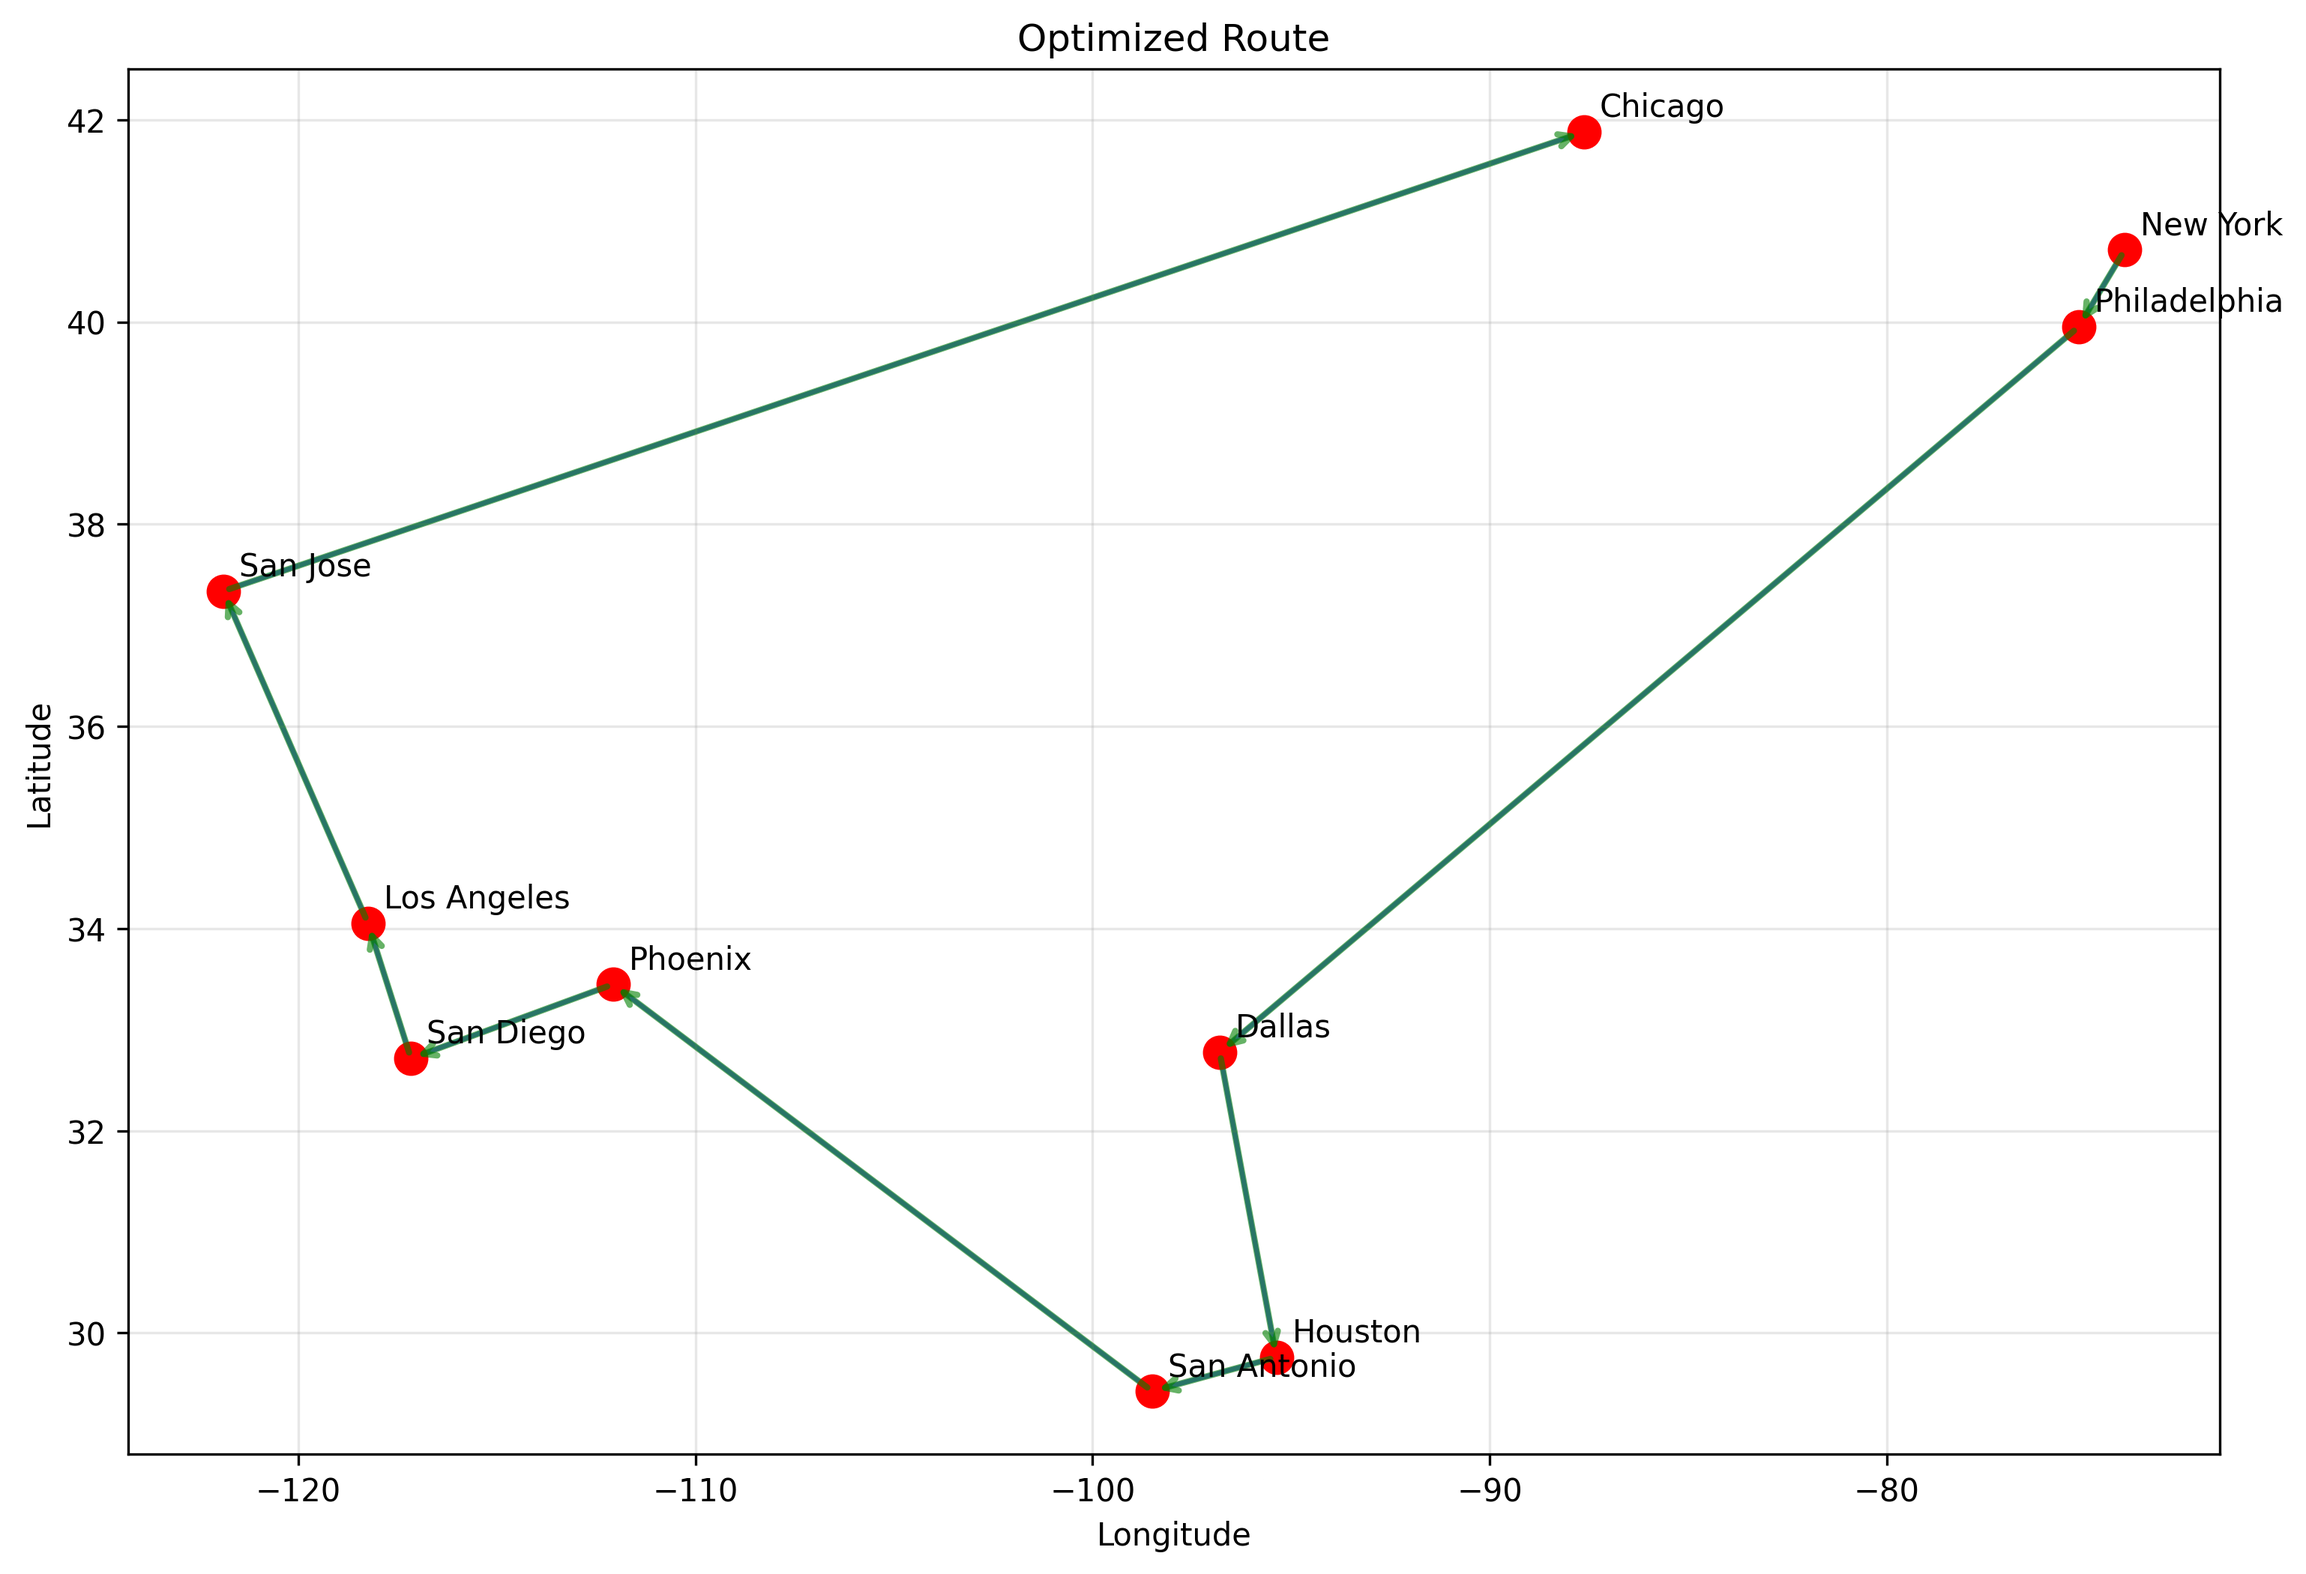
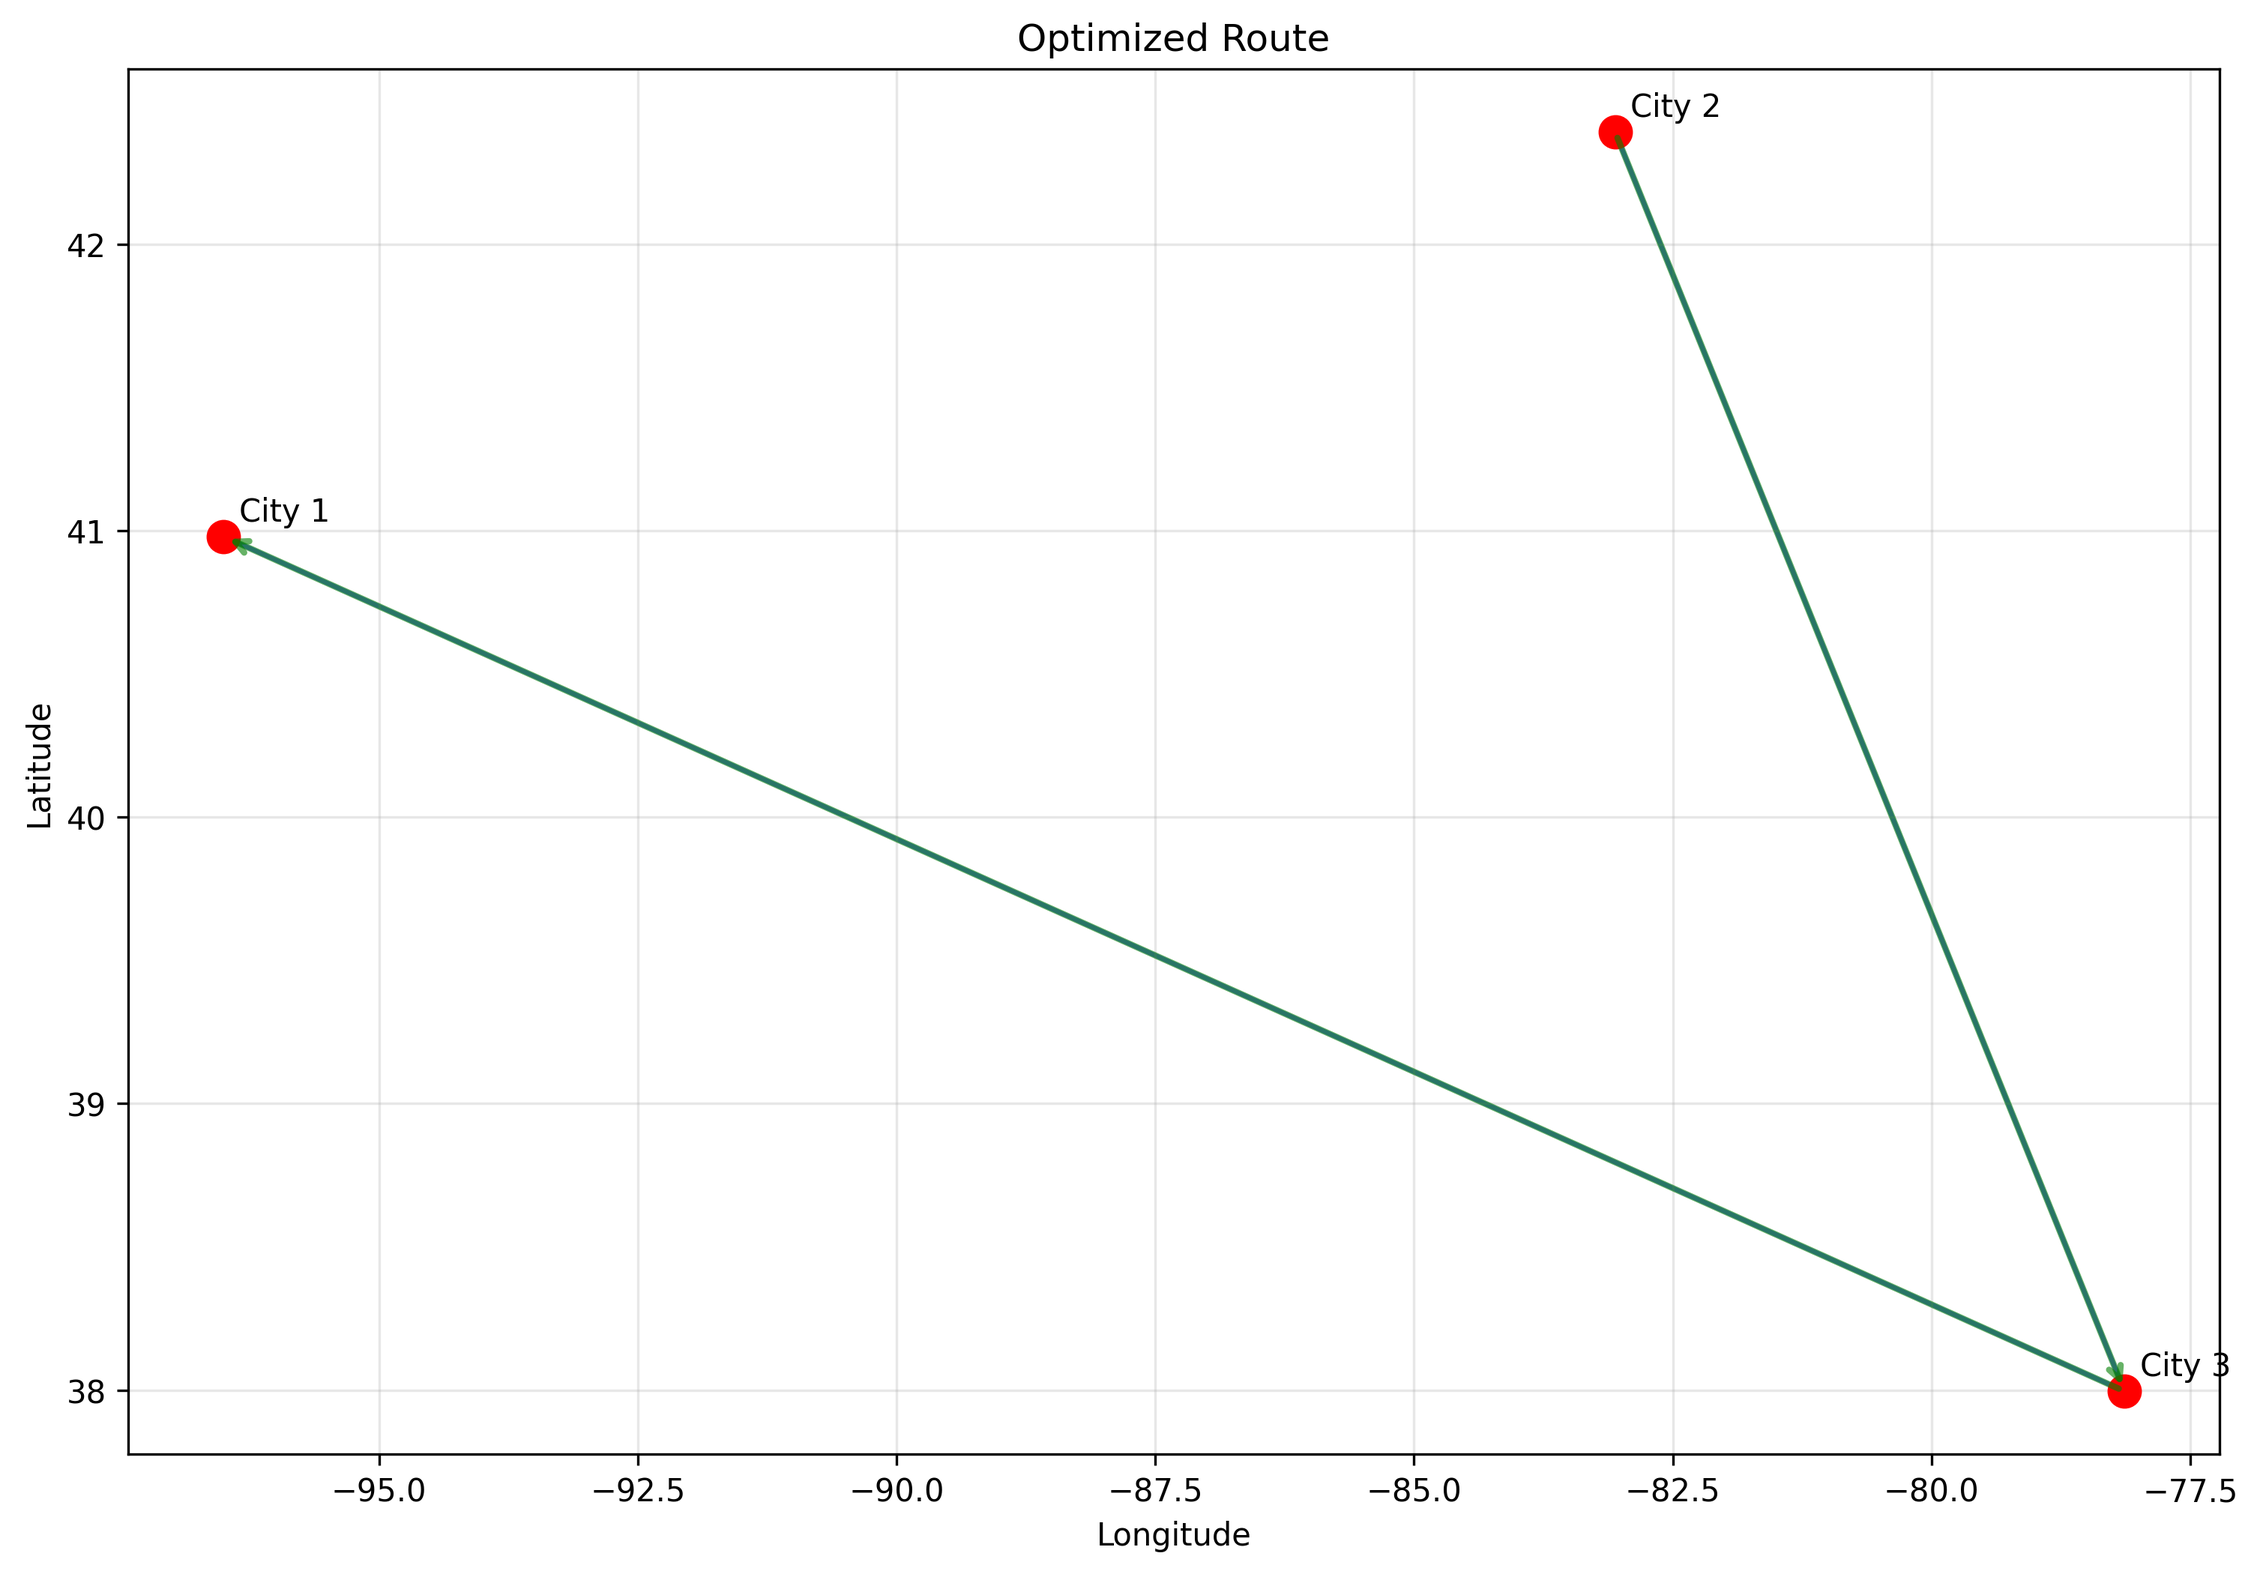
Enhance GUI with interactive map for adding cities, allowing users to add cities directly on the map. Update instructions for city data input and improve handling of city lists. Update route and fitness plot images.

diff --git a/gui/app.py b/gui/app.py
@@ -4,6 +4,8 @@ import os
 import time
 import pandas as pd
 from typing import List, Tuple
+from streamlit_folium import st_folium
+import folium
 
 # Add project root to path
 sys.path.append(os.path.abspath(os.path.join(os.path.dirname(__file__), '..')))
@@ -15,7 +17,7 @@ from src.visualization import save_route_plot, save_fitness_plot
 def main():
     st.title("Route Optimization using Genetic Algorithm")
     st.write("""
-    Upload a CSV file with columns: `city,latitude,longitude` or use the example dataset. Adjust the parameters and click 'Optimize Route' to find the shortest path.
+    Upload a CSV file with columns: `city,latitude,longitude` or use the example dataset. You can also add cities interactively on the map below. Adjust the parameters and click 'Optimize Route' to find the shortest path.
     """)
     
     # Sidebar for parameters
@@ -49,9 +51,39 @@ def main():
         step=50
     )
 
-    # Load cities from uploaded file, example, or default
+    # --- Interactive Map for City Editing ---
+    if 'map_cities' not in st.session_state:
+        st.session_state['map_cities'] = []
+
+    st.write("### Add Cities on Map")
+    m = folium.Map(location=[39.8283, -98.5795], zoom_start=4)  # Centered on USA
+    # Add existing markers
+    for city in st.session_state['map_cities']:
+        folium.Marker([city['lat'], city['lon']], popup=city['name']).add_to(m)
+    # Add map to Streamlit
+    map_data = st_folium(m, width=700, height=500)
+    # Add city on click
+    if map_data and map_data['last_clicked']:
+        lat = map_data['last_clicked']['lat']
+        lon = map_data['last_clicked']['lng']
+        city_name = f"City {len(st.session_state['map_cities'])+1}"
+        # Prevent duplicate points
+        if not any(abs(city['lat']-lat)<1e-6 and abs(city['lon']-lon)<1e-6 for city in st.session_state['map_cities']):
+            st.session_state['map_cities'].append({'name': city_name, 'lat': lat, 'lon': lon})
+    # Show current city list
+    st.write("#### Current Cities")
+    for i, city in enumerate(st.session_state['map_cities']):
+        st.write(f"{i+1}. {city['name']} ({city['lat']:.4f}, {city['lon']:.4f})")
+    if st.button("Clear All Cities"):
+        st.session_state['map_cities'] = []
+
+    # --- Load cities from uploaded file, example, or default ---
     cities = None
-    if uploaded_file is not None and not use_example:
+    if st.session_state['map_cities']:
+        # Use cities from map if present
+        cities = [(city['name'], city['lat'], city['lon']) for city in st.session_state['map_cities']]
+        st.info(f"Using {len(cities)} cities from the interactive map.")
+    elif uploaded_file is not None and not use_example:
         with open('data/cities.csv', 'wb') as f:
             f.write(uploaded_file.getvalue())
         try:
@@ -109,7 +141,7 @@ def main():
                 route_cities = [cities[i][0] for i in best_route]
                 st.write(" → ".join(route_cities))
     else:
-        st.info("Please upload a CSV file with city data (columns: city, latitude, longitude) or use the example dataset.")
+        st.info("Please upload a CSV file with city data (columns: city, latitude, longitude), use the example dataset, or add cities on the map above.")
 
 if __name__ == "__main__":
     main() 
